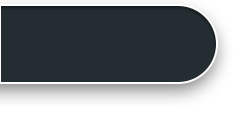
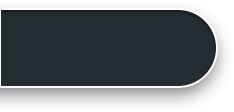
Revised assets, layout on floating buttons

Changed region(s): [[0.0, 0.0268, 0.9573, 0.9107]]

diff --git a/Evenly/View/Buttons/EVFloatingRequestButton.m b/Evenly/View/Buttons/EVFloatingRequestButton.m
@@ -10,8 +10,10 @@
 
 @implementation EVFloatingRequestButton
 
-#define EV_FLOATING_REQUEST_BUTTON_ARROW_MARGIN 14.0
+#define EV_FLOATING_REQUEST_BUTTON_ARROW_MARGIN 20.0
 #define EV_FLOATING_REQUEST_BUTTON_TEXT_MARGIN 12.0
+#define EV_FLOATING_REQUEST_BUTTON_DROP_SHADOW_OFFSET 4.0
+
 
 - (id)init
 {
@@ -37,7 +39,7 @@
     x = EV_FLOATING_REQUEST_BUTTON_ARROW_MARGIN;
     width = self.arrowImageView.image.size.width;
     height = self.arrowImageView.image.size.height;
-    y = (int)((self.frame.size.height - height) / 2.0);
+    y = (int)((self.frame.size.height - height) / 2.0) - EV_FLOATING_REQUEST_BUTTON_DROP_SHADOW_OFFSET;
     self.arrowImageView.frame = CGRectMake(x, y, width, height);
     
     [self.label sizeToFit];
@@ -45,7 +47,7 @@
     x = self.frame.size.width - EV_FLOATING_REQUEST_BUTTON_TEXT_MARGIN - self.label.frame.size.width;
     width = self.label.frame.size.width;
     height = self.label.frame.size.height;
-    y = (int)((self.frame.size.height - height) / 2.0);
+    y = (int)((self.frame.size.height - height) / 2.0) - EV_FLOATING_REQUEST_BUTTON_DROP_SHADOW_OFFSET;
     self.label.frame = CGRectMake(x, y, width, height);
 }
 

diff --git a/Evenly/View/Buttons/EVFloatingPaymentButton.m b/Evenly/View/Buttons/EVFloatingPaymentButton.m
@@ -9,7 +9,8 @@
 #import "EVFloatingPaymentButton.h"
 
 #define EV_FLOATING_PAYMENT_BUTTON_TEXT_MARGIN 12.0
-#define EV_FLOATING_PAYMENT_BUTTON_ARROW_MARGIN 25.0
+#define EV_FLOATING_PAYMENT_BUTTON_ARROW_MARGIN 20.0
+#define EV_FLOATING_PAYMENT_BUTTON_DROP_SHADOW_OFFSET 4.0
 
 @implementation EVFloatingPaymentButton
 
@@ -39,13 +40,13 @@
     x = EV_FLOATING_PAYMENT_BUTTON_TEXT_MARGIN;
     width = self.label.frame.size.width;
     height = self.label.frame.size.height;
-    y = (int)((self.frame.size.height - height) / 2.0);
+    y = (int)((self.frame.size.height - height) / 2.0) - EV_FLOATING_PAYMENT_BUTTON_DROP_SHADOW_OFFSET;
     self.label.frame = CGRectMake(x, y, width, height);
 
     width = self.arrowImageView.image.size.width;
     x = self.frame.size.width - EV_FLOATING_PAYMENT_BUTTON_ARROW_MARGIN - width;
     height = self.arrowImageView.image.size.height;
-    y = (int)((self.frame.size.height - height) / 2.0) - 10.0;
+    y = (int)((self.frame.size.height - height) / 2.0) - EV_FLOATING_PAYMENT_BUTTON_DROP_SHADOW_OFFSET;
     self.arrowImageView.frame = CGRectMake(x, y, width, height);
 }
 

diff --git a/Evenly/View/Buttons/EVFloatingButton.m b/Evenly/View/Buttons/EVFloatingButton.m
@@ -20,7 +20,7 @@
         self.label = [[UILabel alloc] initWithFrame:self.bounds];
         self.label.backgroundColor = [UIColor clearColor];
         self.label.textColor = [UIColor whiteColor];
-        self.label.font = [EVFont blackFontOfSize:14];
+        self.label.font = [EVFont blackFontOfSize:13];
         [self addSubview:self.label];
     }
     return self;
